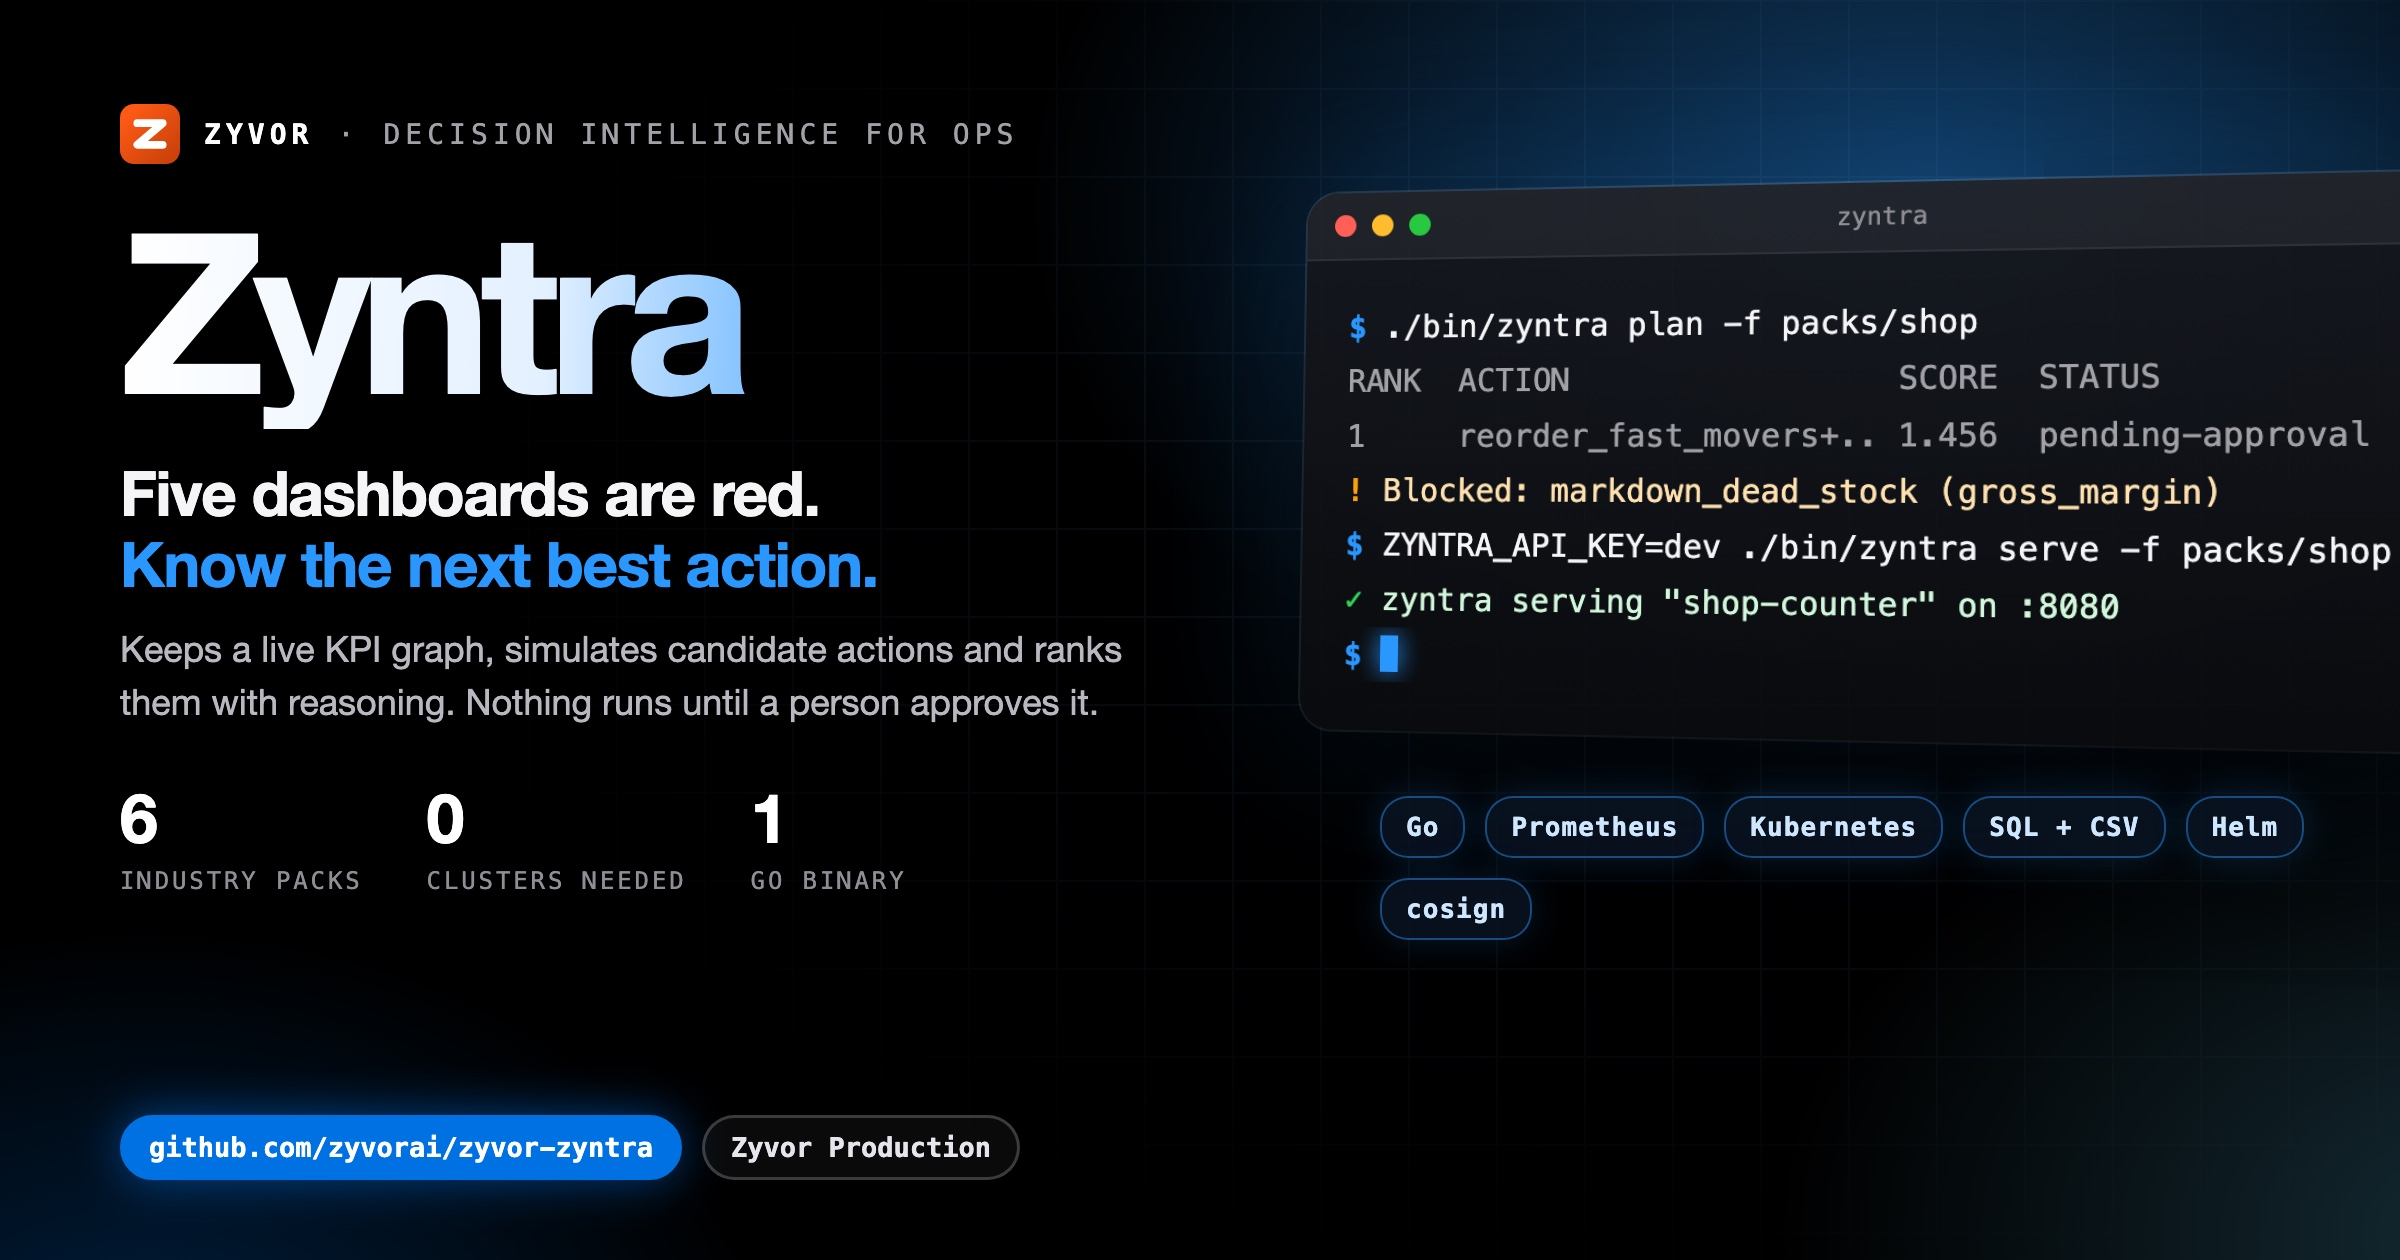
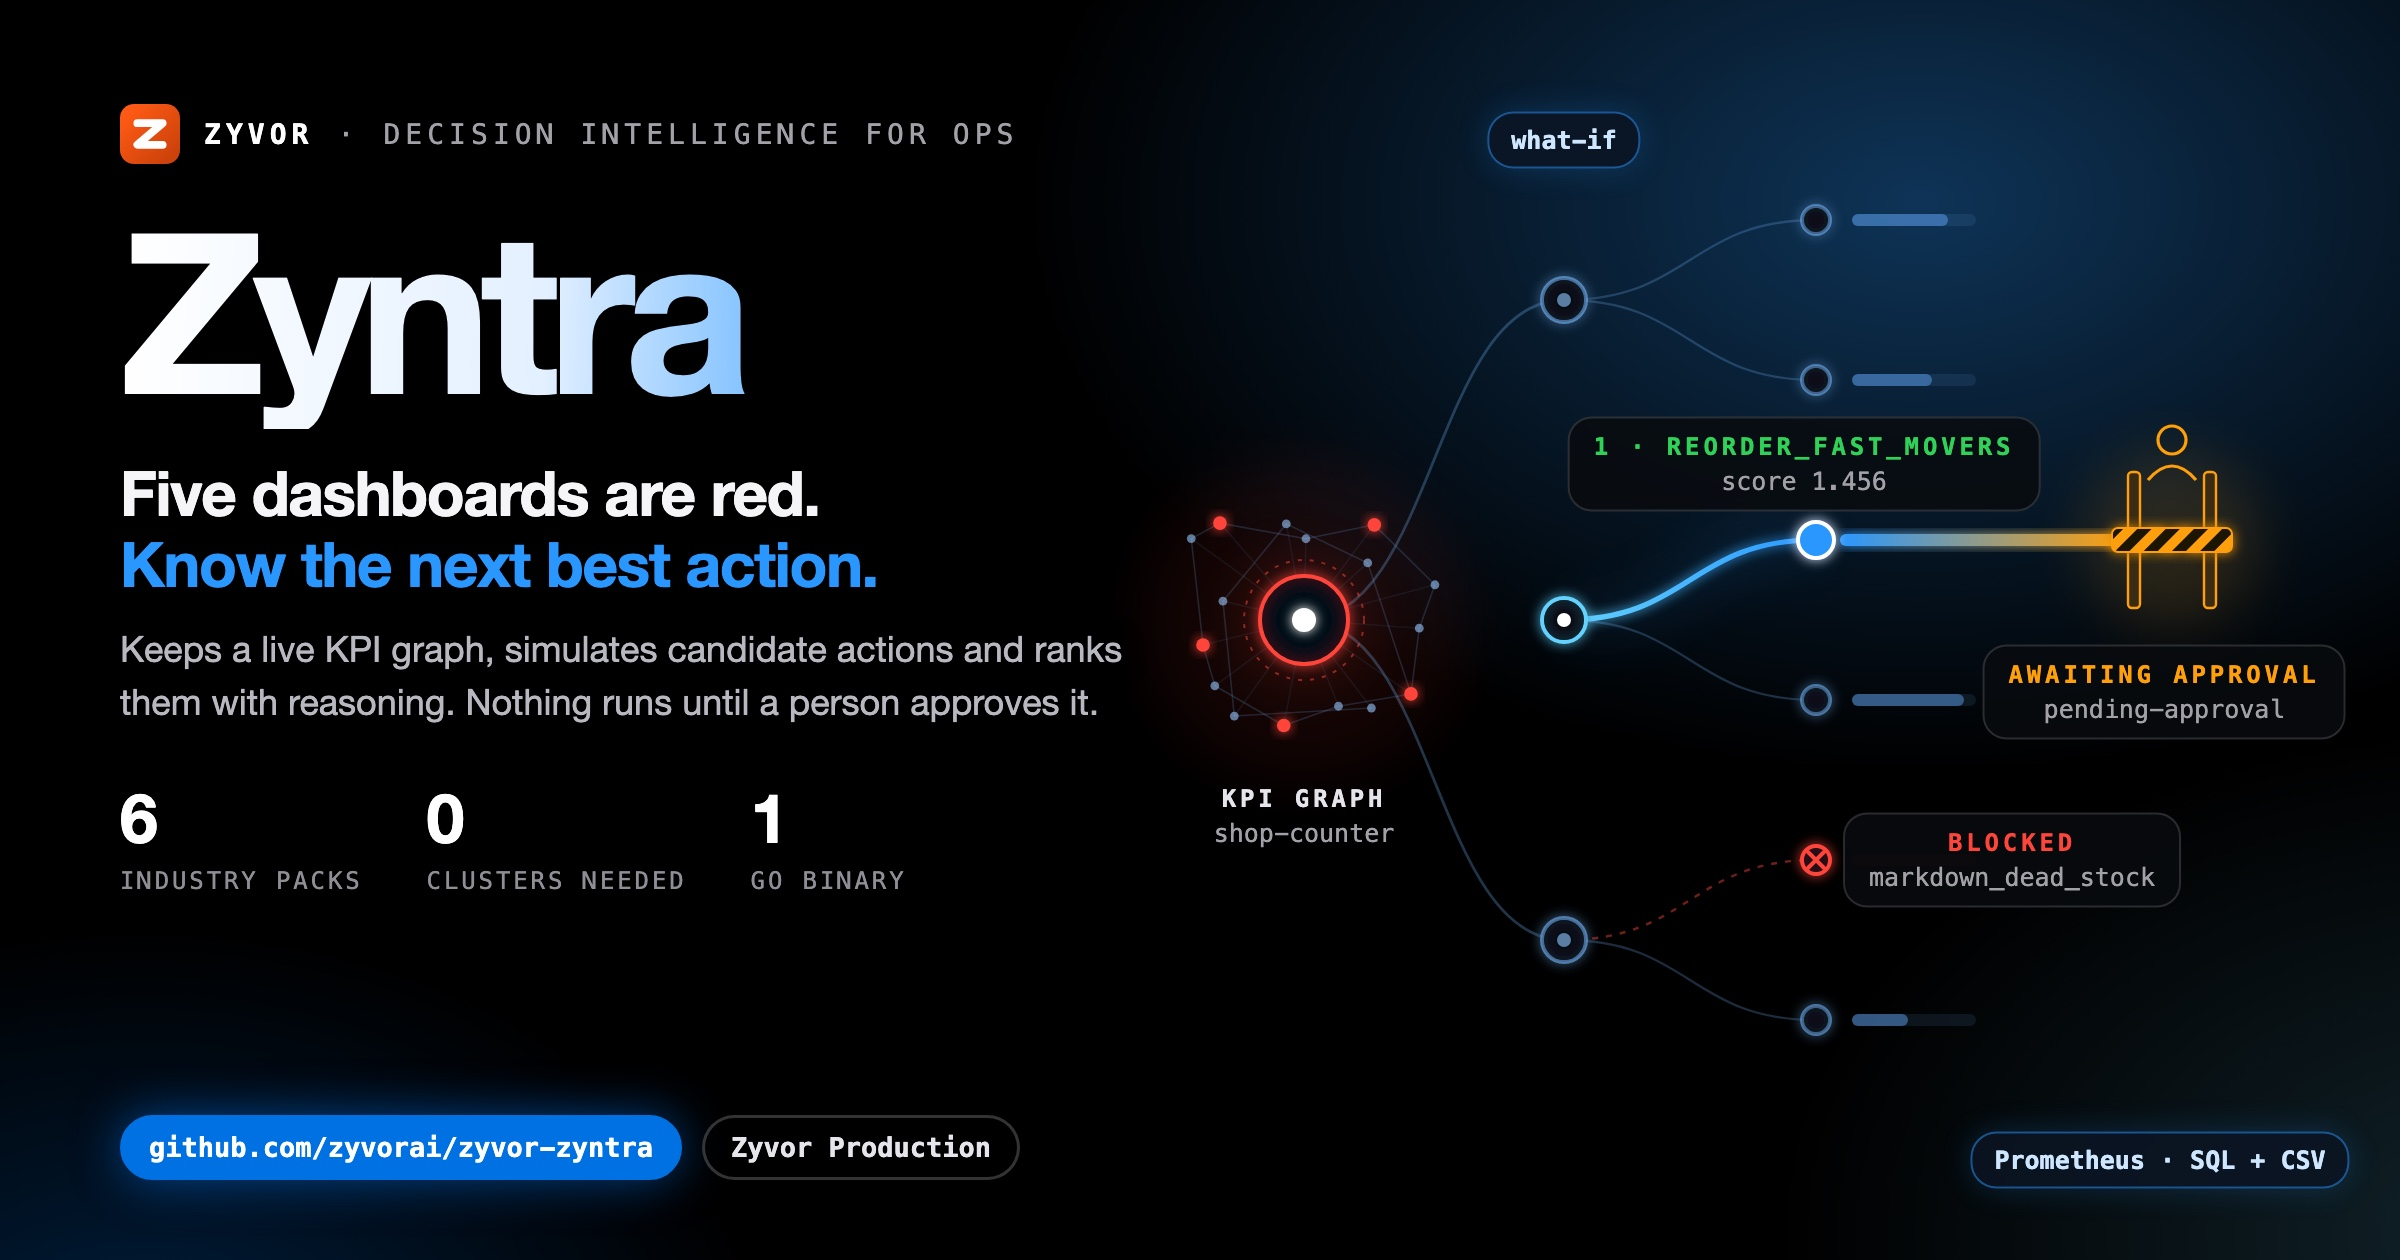
docs(social): unique illustrated hero card
Replace the shared terminal-window art with a motif drawn for this project;
same verified copy and stats on the left.

diff --git a/docs/social/zyntra-hero-dark.html b/docs/social/zyntra-hero-dark.html
@@ -8,58 +8,47 @@
   Build: ./docs/social/build-hero-dark.sh  ->  zyntra-hero-dark.jpg (2400x1260)
 -->
 <style>
-  :root { --blue:#0071e3; --signal:#2997ff; --cyan:#64d2ff; --green:#30d158; --amber:#ff9f0a;
+  :root { --blue:#0071e3; --signal:#2997ff; --cyan:#64d2ff; --green:#30d158; --amber:#ff9f0a; --red:#ff453a; --violet:#bf5af2;
     --sans:'SF Pro Display','Helvetica Neue',Helvetica,Arial,sans-serif; --mono:'SF Mono',Menlo,Consolas,monospace; }
   * { box-sizing:border-box; }
   html,body { margin:0; padding:0; }
   body { width:1200px; height:630px; overflow:hidden; color:#f5f5f7; font-family:var(--sans); position:relative; background:#000; }
   .aurora { position:absolute; inset:0;
-    background:radial-gradient(720px 460px at 80% 16%, rgba(41,151,255,.40), transparent 62%),
-               radial-gradient(600px 420px at 104% 98%, rgba(100,210,255,.20), transparent 60%),
+    background:radial-gradient(720px 460px at 80% 16%, rgba(41,151,255,.34), transparent 62%),
+               radial-gradient(600px 420px at 104% 98%, rgba(100,210,255,.16), transparent 60%),
                radial-gradient(520px 380px at 6% 110%, rgba(0,113,227,.28), transparent 60%); }
-  .grid { position:absolute; inset:0; opacity:.09;
-    background-image:linear-gradient(rgba(120,180,255,.9) 1px,transparent 1px),linear-gradient(90deg,rgba(120,180,255,.9) 1px,transparent 1px);
-    background-size:44px 44px; -webkit-mask-image:radial-gradient(900px 520px at 72% 42%, #000 18%, transparent 75%); }
-  .left { position:absolute; left:60px; top:52px; width:560px; z-index:3; }
+  .copy { position:absolute; left:60px; top:52px; width:560px; z-index:3; }
   .brand { display:flex; align-items:center; gap:12px; font-family:var(--mono); font-size:14px; letter-spacing:.18em; text-transform:uppercase; color:#a1a1a6; }
   .brand b { color:#fff; }
   .word { margin:20px 0 0; font-size:112px; line-height:.95; font-weight:800; letter-spacing:-.05em; white-space:nowrap;
     background:linear-gradient(92deg,#fff 0%,#e3f0ff 38%,var(--signal) 74%,var(--cyan) 100%); -webkit-background-clip:text; background-clip:text; color:transparent; padding-bottom:6px; }
   .tag { margin:14px 0 0; font-size:31px; line-height:1.15; font-weight:700; letter-spacing:-.02em; }
   .tag em { font-style:normal; color:var(--signal); }
-  .lede { margin:12px 0 0; font-size:18px; line-height:1.45; color:#b8b8bf; width:520px; }
+  .lede { margin:12px 0 0; font-size:18px; line-height:1.45; color:#b8b8bf; width:520px; text-shadow:0 1px 12px #000; }
   .stats { margin-top:24px; display:flex; gap:32px; }
   .stat b { display:block; font-size:34px; font-weight:800; letter-spacing:-.03em; color:#fff; }
   .stat span { font-family:var(--mono); font-size:12px; letter-spacing:.12em; text-transform:uppercase; color:#8e8e93; }
   .pill { position:absolute; left:60px; bottom:40px; display:flex; gap:10px; z-index:3; }
-  .pill span { font-family:var(--mono); font-size:13.5px; font-weight:700; padding:7px 13px; border-radius:18px; border:1.5px solid rgba(255,255,255,.2); color:#e5e5ea; background:rgba(255,255,255,.04); }
+  .pill span { font-family:var(--mono); font-size:13.5px; font-weight:700; padding:7px 13px; border-radius:18px; border:1.5px solid rgba(255,255,255,.2); color:#e5e5ea; background:rgba(0,0,0,.6); }
   .pill span.b { background:var(--blue); border-color:var(--blue); color:#fff; box-shadow:0 0 24px rgba(0,113,227,.55); }
-
-  .right { position:absolute; left:652px; top:96px; width:560px; z-index:2; }
-  .win { position:relative; width:560px; border-radius:16px; overflow:hidden; z-index:2;
-    background:linear-gradient(180deg, rgba(22,24,30,.94), rgba(10,11,14,.96));
-    box-shadow:0 50px 100px rgba(0,0,0,.75), 0 0 0 1px rgba(255,255,255,.14), 0 0 90px rgba(41,151,255,.22);
-    transform:perspective(1600px) rotateY(-14deg) rotateX(4deg); transform-origin:left center; }
-  .bar { height:34px; display:flex; align-items:center; gap:8px; padding:0 14px; background:rgba(255,255,255,.05); border-bottom:1px solid rgba(255,255,255,.07); }
-  .bar i { width:11px; height:11px; border-radius:50%; background:#ff5f57; } .bar i:nth-child(2){background:#febc2e} .bar i:nth-child(3){background:#28c840}
-  .bar em { margin-left:auto; margin-right:auto; font-style:normal; font-family:var(--mono); font-size:12px; color:#8e8e93; transform:translateX(-24px); }
-  .term { min-height:214px; padding:20px 22px 24px; font-family:var(--mono); font-size:15.5px; line-height:1.75; }
-  .l { white-space:pre; overflow:hidden; text-overflow:ellipsis; color:#f5f5f7; }
-  .l .p { color:var(--signal); font-weight:700; }
-  .l.out { color:#a1a1a6; }
-  .l.cm { color:#6e6e73; }
-  .l.ok { color:#d1f7dc; } .l.ok span { color:var(--green); font-weight:700; }
-  .l.warn { color:#ffe1b0; } .l.warn span { color:var(--amber); font-weight:700; }
-  .cur { display:inline-block; width:9px; height:18px; background:var(--signal); vertical-align:-3px; box-shadow:0 0 12px var(--signal); }
-  .chips { margin:34px 0 0 38px; width:480px; display:flex; flex-wrap:wrap; gap:10px; position:relative; z-index:3; }
-  .chips span { font-family:var(--mono); font-size:13px; font-weight:700; letter-spacing:.04em; padding:7px 12px; border-radius:14px;
-    color:#cfe6ff; background:rgba(10,20,35,.82); border:1px solid rgba(41,151,255,.45); box-shadow:0 0 18px rgba(41,151,255,.18); }
+  .art { position:absolute; left:520px; top:0; width:680px; height:630px; z-index:2; }
+  .art svg { display:block; }
+  #labels { position:absolute; inset:0; z-index:4; pointer-events:none; }
+  .lbl { position:absolute; font-family:var(--mono); font-size:12.5px; color:#a1a1a6; text-align:center; transform:translate(-50%,-50%); white-space:nowrap; }
+  .lbl b { display:block; font-size:12px; letter-spacing:.16em; text-transform:uppercase; color:#e5e5ea; }
+  .lbl span { display:block; margin-top:3px; }
+  .lbl.box { padding:7px 12px; border-radius:12px; background:rgba(8,10,14,.85); border:1px solid rgba(255,255,255,.14); }
+  .lbl.chip { padding:6px 11px; border-radius:13px; font-size:12.5px; font-weight:700; color:#cfe6ff; background:rgba(10,20,35,.85); border:1px solid rgba(41,151,255,.5); box-shadow:0 0 16px rgba(41,151,255,.2); }
+  .lbl.left { transform:translate(0,-50%); text-align:left; }
+  .lbl.right { transform:translate(-100%,-50%); text-align:right; }
+  .ok { color:var(--green) !important; } .warn { color:var(--amber) !important; } .bad { color:var(--red) !important; } .sig { color:var(--signal) !important; } .cy { color:var(--cyan) !important; } .vi { color:var(--violet) !important; }
 </style>
 </head>
 <body>
 <div class="aurora"></div>
-<div class="grid"></div>
-<div class="left">
+<div class="art"><svg id="art" width="680" height="630" viewBox="0 0 680 630" xmlns="http://www.w3.org/2000/svg"></svg></div>
+<div id="labels"></div>
+<div class="copy">
   <div class="brand"><svg viewBox="0 0 64 64" width="30" height="30" aria-hidden="true"><defs><linearGradient id="zb" x1="8" y1="8" x2="56" y2="56" gradientUnits="userSpaceOnUse"><stop offset="0" stop-color="#ff5a15"/><stop offset="1" stop-color="#cc420a"/></linearGradient></defs><rect width="64" height="64" rx="15" fill="url(#zb)"/><path d="M18.5,20.5 45.5,20.5 18.5,43.5 45.5,43.5" fill="none" stroke="#fff" stroke-width="8.3" stroke-linecap="round" stroke-linejoin="round"/></svg><b>Zyvor</b><span>&middot;</span><span>Decision intelligence for ops</span></div>
   <div class="word">Zyntra</div>
   <div class="tag">Five dashboards are red.<br><em>Know the next best action.</em></div>
@@ -67,8 +56,100 @@
   <div class="stats"><div class="stat"><b>6</b><span>industry packs</span></div><div class="stat"><b>0</b><span>clusters needed</span></div><div class="stat"><b>1</b><span>Go binary</span></div></div>
 </div>
 <div class="pill"><span class="b">github.com/zyvorai/zyvor-zyntra</span><span>Zyvor Production</span></div>
-<div class="right"><div class="win"><div class="bar"><i></i><i></i><i></i><em>zyntra</em></div>
-<div class="term"><div class="l"><span class="p">$</span> ./bin/zyntra plan -f packs/shop</div><div class="l out">RANK  ACTION                 SCORE  STATUS</div><div class="l out">1     reorder_fast_movers+.. 1.456  pending-approval</div><div class="l warn"><span>!</span> Blocked: markdown_dead_stock (gross_margin)</div><div class="l"><span class="p">$</span> ZYNTRA_API_KEY=dev ./bin/zyntra serve -f packs/shop</div><div class="l ok"><span>&#10003;</span> zyntra serving &quot;shop-counter&quot; on :8080</div><div class="l"><span class="p">$</span> <i class="cur"></i></div></div></div>
-<div class="chips"><span>Go</span><span>Prometheus</span><span>Kubernetes</span><span>SQL + CSV</span><span>Helm</span><span>cosign</span></div></div>
+<script>
+var Z = (function () {
+  var NS = 'http://www.w3.org/2000/svg', svg = document.getElementById('art'), labels = document.getElementById('labels');
+  var seed = 20261004;
+  function rnd() { seed = (seed * 1103515245 + 12345) % 2147483648; return seed / 2147483648; }
+  function el(tag, a, parent) { var n = document.createElementNS(NS, tag); for (var k in a) n.setAttribute(k, a[k]); (parent || svg).appendChild(n); return n; }
+  function g(attrs) { return el('g', attrs || {}); }
+  function label(x, y, inner, cls, style) { var d = document.createElement('div'); d.className = 'lbl ' + (cls || ''); d.style.left = (520 + x) + 'px'; d.style.top = y + 'px'; if (style) d.setAttribute('style', d.getAttribute('style') + ';' + style); d.innerHTML = inner; labels.appendChild(d); return d; }
+  return { NS: NS, svg: svg, W: 680, H: 630, rnd: rnd, el: el, g: g, label: label,
+    reseed: function (s) { seed = s; },
+    c: { blue: '#0071e3', signal: '#2997ff', cyan: '#64d2ff', green: '#30d158', amber: '#ff9f0a', red: '#ff453a', violet: '#bf5af2', teal: '#40c8e0', indigo: '#5e5ce6', pink: '#ff375f', white: '#f5f5f7', grey: '#8e8e93' } };
+})();
+(function () {
+// Zyntra: decision tree. A KPI root (with five red signals in its graph) branches through what-if
+// simulations to ranked candidate actions; the best path is lit and stops at an approval gate.
+var C = Z.c;
+var d = Z.el('defs', {});
+d.innerHTML = '<filter id="zngl" x="-50%" y="-50%" width="200%" height="200%"><feGaussianBlur stdDeviation="3" result="b"/><feMerge><feMergeNode in="b"/><feMergeNode in="SourceGraphic"/></feMerge></filter>' +
+  '<filter id="znsf" x="-80%" y="-80%" width="260%" height="260%"><feGaussianBlur stdDeviation="14"/></filter>' +
+  '<linearGradient id="znlit" x1="0" y1="0" x2="1" y2="0"><stop offset="0" stop-color="#64d2ff"/><stop offset="1" stop-color="#2997ff"/></linearGradient>' +
+  '<linearGradient id="znbeam" x1="0" y1="0" x2="1" y2="0"><stop offset="0" stop-color="#2997ff"/><stop offset="1" stop-color="#ff9f0a"/></linearGradient>' +
+  '<pattern id="znstripe" width="10" height="10" patternUnits="userSpaceOnUse" patternTransform="rotate(45)"><rect width="5" height="10" fill="#ff9f0a"/><rect x="5" width="5" height="10" fill="#1a1206"/></pattern>';
+
+var R0 = [132, 310];
+var L1 = [[262, 150], [262, 310], [262, 470]];
+var LV = [[388, 110, 0], [388, 190, 0], [388, 270, 1], [388, 350, 0], [388, 430, 2], [388, 510, 0]];
+var BEST = 2, BLOCK = 4, GX = 566, GY = 270;
+
+// KPI graph constellation around the root
+Z.el('circle', { cx: R0[0], cy: R0[1], r: 80, fill: C.red, opacity: .07, filter: 'url(#znsf)' });
+var gn = [];
+for (var k = 0; k < 16; k++) { var a = k / 16 * Math.PI * 2 + Z.rnd() * .3, r = 40 + Z.rnd() * 30; gn.push([R0[0] + r * Math.cos(a), R0[1] + r * Math.sin(a)]); }
+gn.forEach(function (p, k) { var q = gn[(k + 1 + (k % 3)) % gn.length]; Z.el('line', { x1: p[0], y1: p[1], x2: q[0], y2: q[1], stroke: 'rgba(120,185,255,.18)', 'stroke-width': .8 }); Z.el('line', { x1: p[0], y1: p[1], x2: R0[0], y2: R0[1], stroke: 'rgba(120,185,255,.08)', 'stroke-width': .8 }); });
+var reds = [1, 4, 7, 10, 13];
+gn.forEach(function (p, k) { var red = reds.indexOf(k) >= 0; Z.el('circle', { cx: p[0], cy: p[1], r: red ? 3.4 : 2.2, fill: red ? C.red : 'rgba(150,200,255,.6)', filter: red ? 'url(#zngl)' : null }); });
+
+function curve(a, b) { var mx = (a[0] + b[0]) / 2; return 'M' + a[0] + ',' + a[1] + ' C' + mx + ',' + a[1] + ' ' + mx + ',' + b[1] + ' ' + b[0] + ',' + b[1]; }
+// dim edges
+L1.forEach(function (n, i) {
+  if (i !== 1) Z.el('path', { d: curve(R0, n), fill: 'none', stroke: 'rgba(120,185,255,.28)', 'stroke-width': 1.4 });
+});
+LV.forEach(function (l, i) {
+  var p = L1[Math.floor(i / 2)];
+  if (i !== BEST) Z.el('path', { d: curve(p, l), fill: 'none', stroke: i === BLOCK ? 'rgba(255,69,58,.45)' : 'rgba(120,185,255,.24)', 'stroke-width': 1.2, 'stroke-dasharray': i === BLOCK ? '3 4' : null });
+});
+// lit path
+var lit = [curve(R0, L1[1]), curve(L1[1], [LV[BEST][0], LV[BEST][1]])];
+lit.forEach(function (dd) {
+  Z.el('path', { d: dd, fill: 'none', stroke: C.signal, 'stroke-width': 8, opacity: .25, filter: 'url(#znsf)' });
+  Z.el('path', { d: dd, fill: 'none', stroke: 'url(#znlit)', 'stroke-width': 2.6, filter: 'url(#zngl)' });
+});
+
+// score bars (ranked, illustrative lengths) for the non-best leaves
+var lens = [48, 40, 0, 56, 0, 28];
+LV.forEach(function (l, i) {
+  if (i === BEST || i === BLOCK) return;
+  Z.el('rect', { x: l[0] + 18, y: l[1] - 3, width: 62, height: 6, rx: 3, fill: 'rgba(120,185,255,.10)' });
+  Z.el('rect', { x: l[0] + 18, y: l[1] - 3, width: lens[i], height: 6, rx: 3, fill: 'rgba(100,170,255,.45)' });
+});
+// blocked leaf: red cross over its bar
+var bl = LV[BLOCK];
+Z.el('rect', { x: bl[0] + 18, y: bl[1] - 3, width: 62, height: 6, rx: 3, fill: 'rgba(255,69,58,.15)' });
+// best beam to the gate
+var bb = LV[BEST];
+Z.el('rect', { x: bb[0] + 12, y: bb[1] - 3, width: GX - bb[0] - 34, height: 6, rx: 3, fill: 'url(#znbeam)', filter: 'url(#zngl)' });
+
+// nodes
+function node(p, r, stroke, fill) { Z.el('circle', { cx: p[0], cy: p[1], r: r, fill: fill || 'rgba(6,10,18,.92)', stroke: stroke, 'stroke-width': 2, filter: 'url(#zngl)' }); }
+L1.forEach(function (n, i) { node(n, 11, i === 1 ? C.cyan : 'rgba(120,185,255,.55)'); Z.el('circle', { cx: n[0], cy: n[1], r: 3.5, fill: i === 1 ? '#fff' : 'rgba(150,200,255,.6)' }); });
+LV.forEach(function (l, i) { node(l, i === BEST ? 9 : 7, i === BEST ? '#fff' : (i === BLOCK ? C.red : 'rgba(120,185,255,.5)'), i === BEST ? C.signal : null); });
+var X = bl[0];
+Z.el('path', { d: 'M' + (X - 4) + ',' + (bl[1] - 4) + ' L' + (X + 4) + ',' + (bl[1] + 4) + ' M' + (X + 4) + ',' + (bl[1] - 4) + ' L' + (X - 4) + ',' + (bl[1] + 4), stroke: C.red, 'stroke-width': 2, 'stroke-linecap': 'round' });
+// root
+Z.el('circle', { cx: R0[0], cy: R0[1], r: 30, fill: C.red, opacity: .18, filter: 'url(#znsf)' });
+node(R0, 22, C.red);
+Z.el('circle', { cx: R0[0], cy: R0[1], r: 30, fill: 'none', stroke: 'rgba(255,69,58,.5)', 'stroke-dasharray': '2 4' });
+Z.el('circle', { cx: R0[0], cy: R0[1], r: 6, fill: '#fff', filter: 'url(#zngl)' });
+
+// approval gate
+Z.el('circle', { cx: GX, cy: GY, r: 44, fill: C.amber, opacity: .14, filter: 'url(#znsf)' });
+Z.el('rect', { x: GX - 22, y: GY - 34, width: 6, height: 68, rx: 2, fill: '#3a2c14', stroke: C.amber, 'stroke-width': 1.2 });
+Z.el('rect', { x: GX + 16, y: GY - 34, width: 6, height: 68, rx: 2, fill: '#3a2c14', stroke: C.amber, 'stroke-width': 1.2 });
+Z.el('rect', { x: GX - 30, y: GY - 6, width: 60, height: 12, rx: 3, fill: 'url(#znstripe)', stroke: C.amber, 'stroke-width': 1, filter: 'url(#zngl)' });
+Z.el('circle', { cx: GX, cy: GY - 50, r: 7, fill: 'none', stroke: C.amber, 'stroke-width': 1.6 });
+Z.el('path', { d: 'M' + (GX - 12) + ',' + (GY - 30) + ' Q' + GX + ',' + (GY - 44) + ' ' + (GX + 12) + ',' + (GY - 30), fill: 'none', stroke: C.amber, 'stroke-width': 1.6 });
+
+// labels
+Z.label(R0[0], R0[1] + 98, '<b>KPI graph</b><span>shop-counter</span>');
+Z.label(262, 70, 'what-if', 'chip');
+Z.label(bb[0] - 6, bb[1] - 38, '<b class="ok">1 &middot; reorder_fast_movers</b><span>score 1.456</span>', 'box');
+Z.label(bl[0] + 98, bl[1], '<b class="bad">blocked</b><span>markdown_dead_stock</span>', 'box');
+Z.label(GX - 4, GY + 76, '<b class="warn">awaiting approval</b><span>pending-approval</span>', 'box');
+Z.label(560, 580, 'Prometheus &middot; SQL + CSV', 'chip');
+})();
+</script>
 </body>
 </html>
